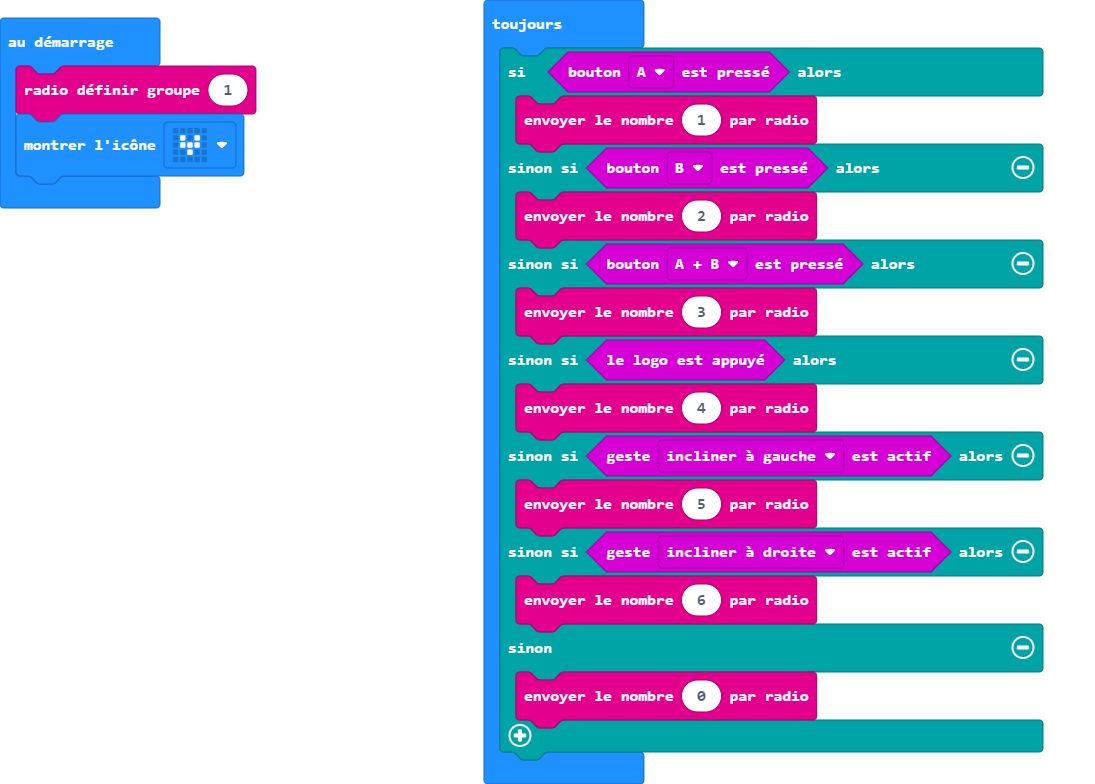
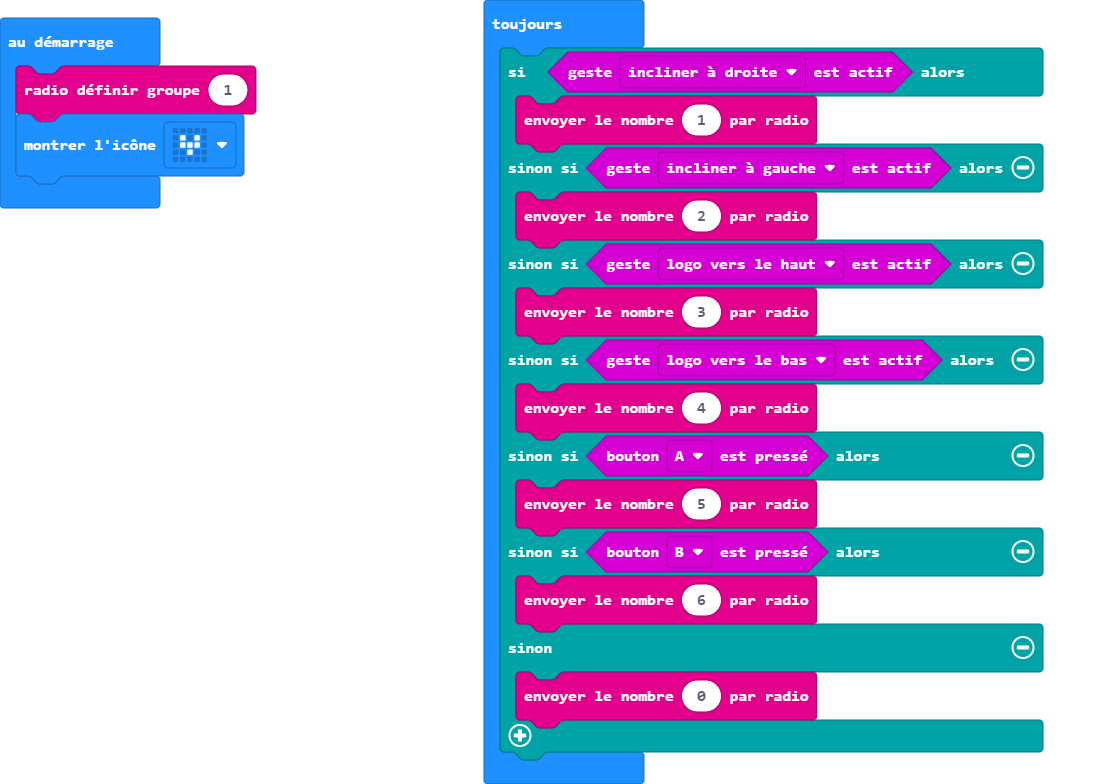
Mise à jour main.blocks, main.ts

diff --git a/main.ts b/main.ts
@@ -1,17 +1,17 @@
 radio.setGroup(1)
 basic.showIcon(IconNames.SmallHeart)
 basic.forever(function () {
-    if (input.buttonIsPressed(Button.A)) {
+    if (input.isGesture(Gesture.TiltRight)) {
         radio.sendNumber(1)
-    } else if (input.buttonIsPressed(Button.B)) {
-        radio.sendNumber(2)
-    } else if (input.buttonIsPressed(Button.AB)) {
-        radio.sendNumber(3)
-    } else if (input.logoIsPressed()) {
-        radio.sendNumber(4)
     } else if (input.isGesture(Gesture.TiltLeft)) {
+        radio.sendNumber(2)
+    } else if (input.isGesture(Gesture.LogoUp)) {
+        radio.sendNumber(3)
+    } else if (input.isGesture(Gesture.LogoDown)) {
+        radio.sendNumber(4)
+    } else if (input.buttonIsPressed(Button.A)) {
         radio.sendNumber(5)
-    } else if (input.isGesture(Gesture.TiltRight)) {
+    } else if (input.buttonIsPressed(Button.B)) {
         radio.sendNumber(6)
     } else {
         radio.sendNumber(0)
